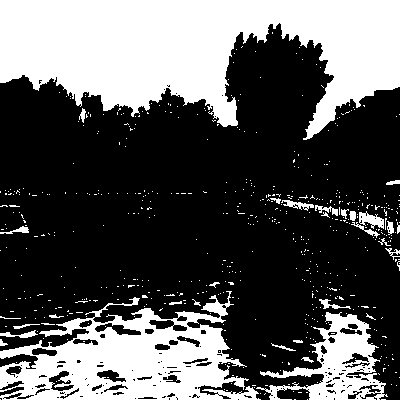
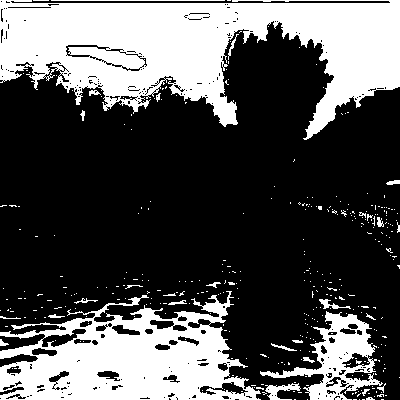
update

diff --git a/sky_seg.py b/sky_seg.py
@@ -38,6 +38,7 @@ def GradientMagnitude(gray_img):
 def sky_seg(img):  # 1 is sky, 0 is other
     mean_rgb = np.mean(img, axis=2)
     gradient_magnitude = GradientMagnitude(mean_rgb)
+    gradient_magnitude = gradient_magnitude/np.max(gradient_magnitude)
     rgb_dis = channel_dis(img)
     # seg = (((1-rgb_dis)+mean_rgb)/2)*(1-gradient_magnitude)
     seg = ((1-rgb_dis)+mean_rgb)*(1-gradient_magnitude)
@@ -59,7 +60,13 @@ def run(image_path, save_name):
     cv2.imwrite(save_name, seg*255)
 
 if __name__=='__main__':
+    run('19_0.7_1.99.png', '19_0.7_1.99_sky_seg.png')
+    run('21_0.7_1.86.png', '21_0.7_1.86_sky_seg.png')
+    run('26_0.93_1.97.png', '26_0.93_1.97_sky_seg.png')
+    run('29_0.85_1.7.png', '29_0.85_1.7_sky_seg.png')
+    run('36_0.83_1.99.png', '36_0.83_1.99_sky_seg.png')
     run('361_low.png', '361_sky_seg.png')
     run('486_low.png', '486_sky_seg.png')
+
 
 
